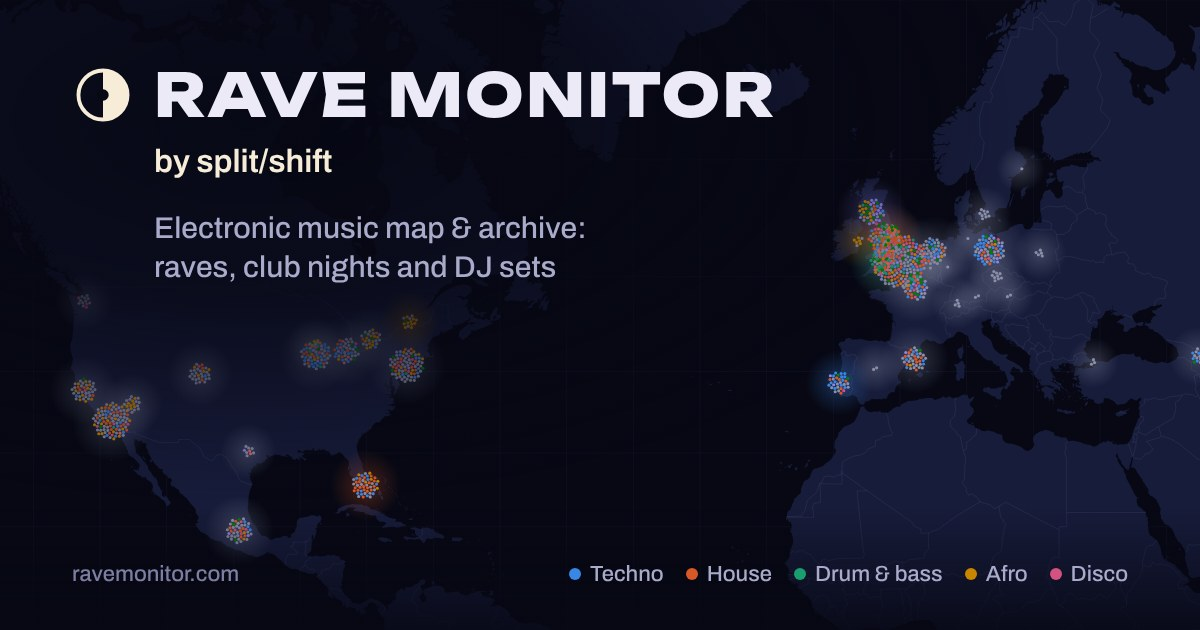
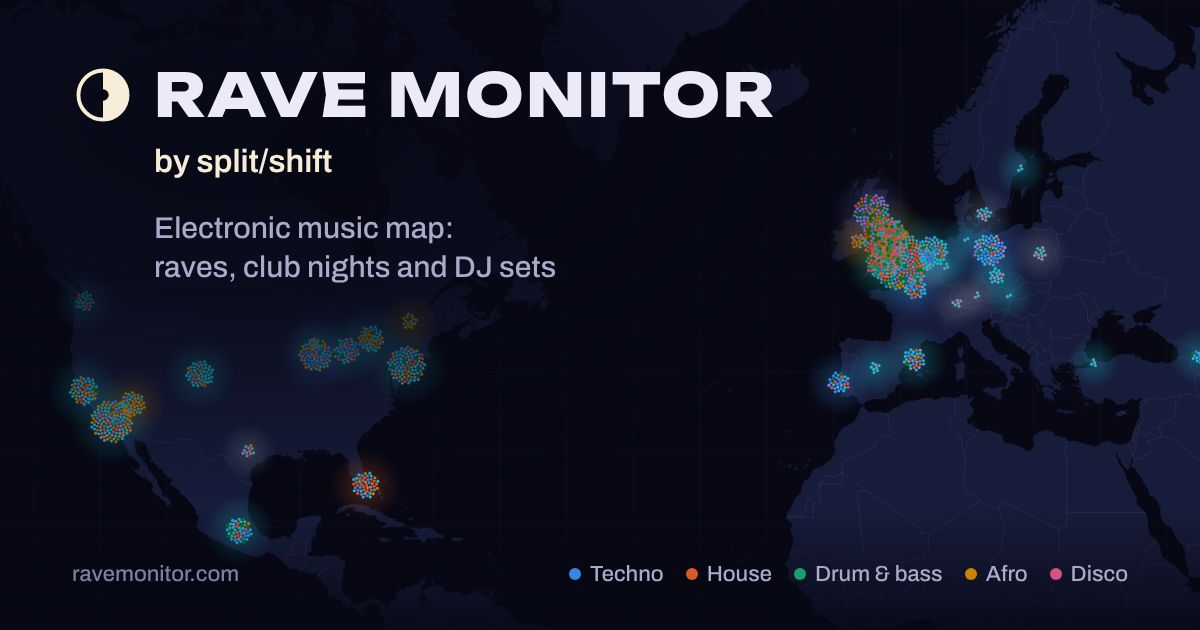
Share image: "Electronic music map" to match the new title
The card's tagline drops "& archive", its dots use the site's colours for
Dance/electronic and Misc, and it's drawn from today's listings. The image
address gets ?v=2 so apps that cached the old card fetch the new one.

Claude-Session: https://claude.ai/code/session_01TyL2rtE2YAxe4EeCcQR27W

diff --git a/site/index.html b/site/index.html
@@ -14,17 +14,17 @@ __HEAD_START__
 <meta property="og:title" content="Rave Monitor - Electronic Music Map">
 <meta property="og:description" content="A live world map of raves, club nights and DJ sets, with the next 30 days of listings and a searchable archive of past nights.">
 <meta property="og:url" content="__SITE_URL__/">
-<meta property="og:image" content="__SITE_URL__/og-image.jpg">
+<meta property="og:image" content="__SITE_URL__/og-image.jpg?v=2">
 <meta property="og:image:type" content="image/jpeg">
 <meta property="og:image:width" content="1200">
 <meta property="og:image:height" content="630">
-<meta property="og:image:alt" content="Rave Monitor, an electronic music map and archive by split/shift: a world map dotted with this week's raves, club nights and DJ sets">
+<meta property="og:image:alt" content="Rave Monitor, an electronic music map by split/shift: a world map dotted with this week's raves, club nights and DJ sets">
 <meta property="og:locale" content="en_US">
 <meta name="twitter:card" content="summary_large_image">
 <meta name="twitter:title" content="Rave Monitor - Electronic Music Map">
 <meta name="twitter:description" content="A live world map of raves, club nights and DJ sets, with the next 30 days of listings and a searchable archive of past nights.">
-<meta name="twitter:image" content="__SITE_URL__/og-image.jpg">
-<meta name="twitter:image:alt" content="Rave Monitor, an electronic music map and archive by split/shift: a world map dotted with this week's raves, club nights and DJ sets">
+<meta name="twitter:image" content="__SITE_URL__/og-image.jpg?v=2">
+<meta name="twitter:image:alt" content="Rave Monitor, an electronic music map by split/shift: a world map dotted with this week's raves, club nights and DJ sets">
 <script type="application/ld+json">{"@context": "https://schema.org", "@type": "WebSite", "name": "Rave Monitor", "alternateName": "Rave Monitor - Electronic Music Map", "url": "__SITE_URL__/", "description": "A live world map of raves, club nights and DJ sets, with the next 30 days of listings and a searchable archive of past nights.", "inLanguage": "en", "creator": {"@type": "Organization", "name": "split/shift", "url": "https://splitshift.fm"}}</script>
 <link rel="icon" href="favicon.ico" sizes="32x32">
 <link rel="icon" href="favicon.svg" type="image/svg+xml">

diff --git a/scripts/og-card.html b/scripts/og-card.html
@@ -40,7 +40,7 @@
     <div class="word">Rave Monitor</div>
   </div>
   <div class="by">by split/shift</div>
-  <div class="tag">Electronic music map &amp; archive:<br>raves, club nights and DJ sets</div>
+  <div class="tag">Electronic music map:<br>raves, club nights and DJ sets</div>
 </div>
 <div class="foot">
   <div>ravemonitor.com</div>
@@ -49,7 +49,7 @@
 <script src="https://cdnjs.cloudflare.com/ajax/libs/d3/7.9.0/d3.min.js"></script>
 <script src="https://cdn.jsdelivr.net/npm/topojson-client@3.1.0/dist/topojson-client.min.js"></script>
 <script>
-const COLORS = { techno: '#3987e5', house: '#d95926', dnb: '#199e70', afro: '#c98500', disco: '#d55181', garage: '#008300', trance: '#9085e9', bass: '#e66767', other: '#8b8fa8' };
+const COLORS = { techno: '#3987e5', house: '#d95926', dnb: '#199e70', afro: '#c98500', disco: '#d55181', garage: '#008300', trance: '#9085e9', bass: '#e66767', electronic: '#22b8cf', misc: '#8b8fa8', other: '#8b8fa8' };
 const NAMES = { techno: 'Techno', house: 'House', dnb: 'Drum & bass', afro: 'Afro', disco: 'Disco' };
 document.getElementById('legend').innerHTML = Object.keys(NAMES).map(k => `<span><i style="background:${COLORS[k]}"></i>${NAMES[k]}</span>`).join('');
 
